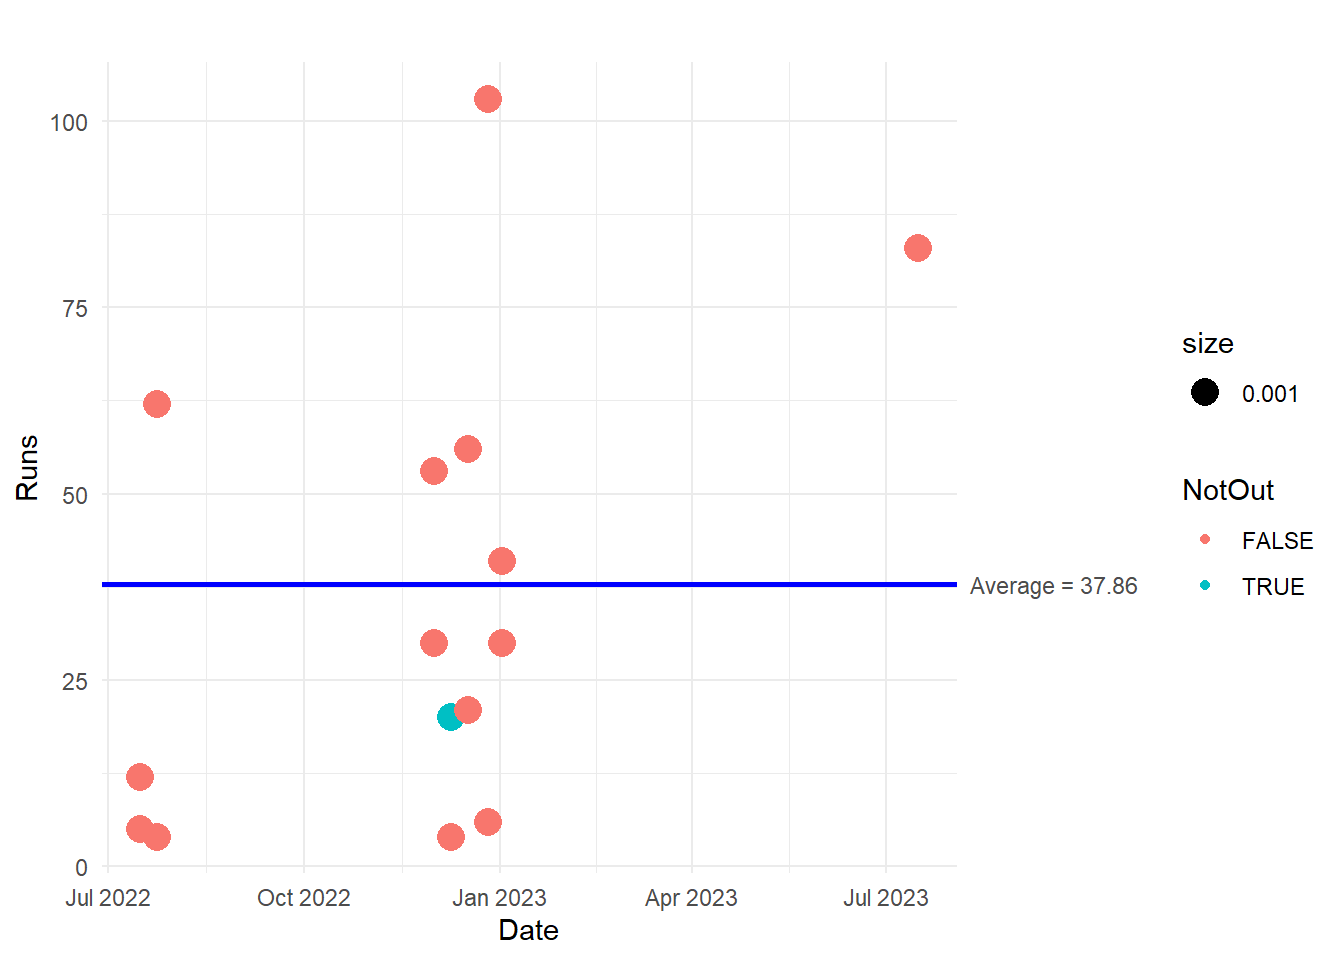
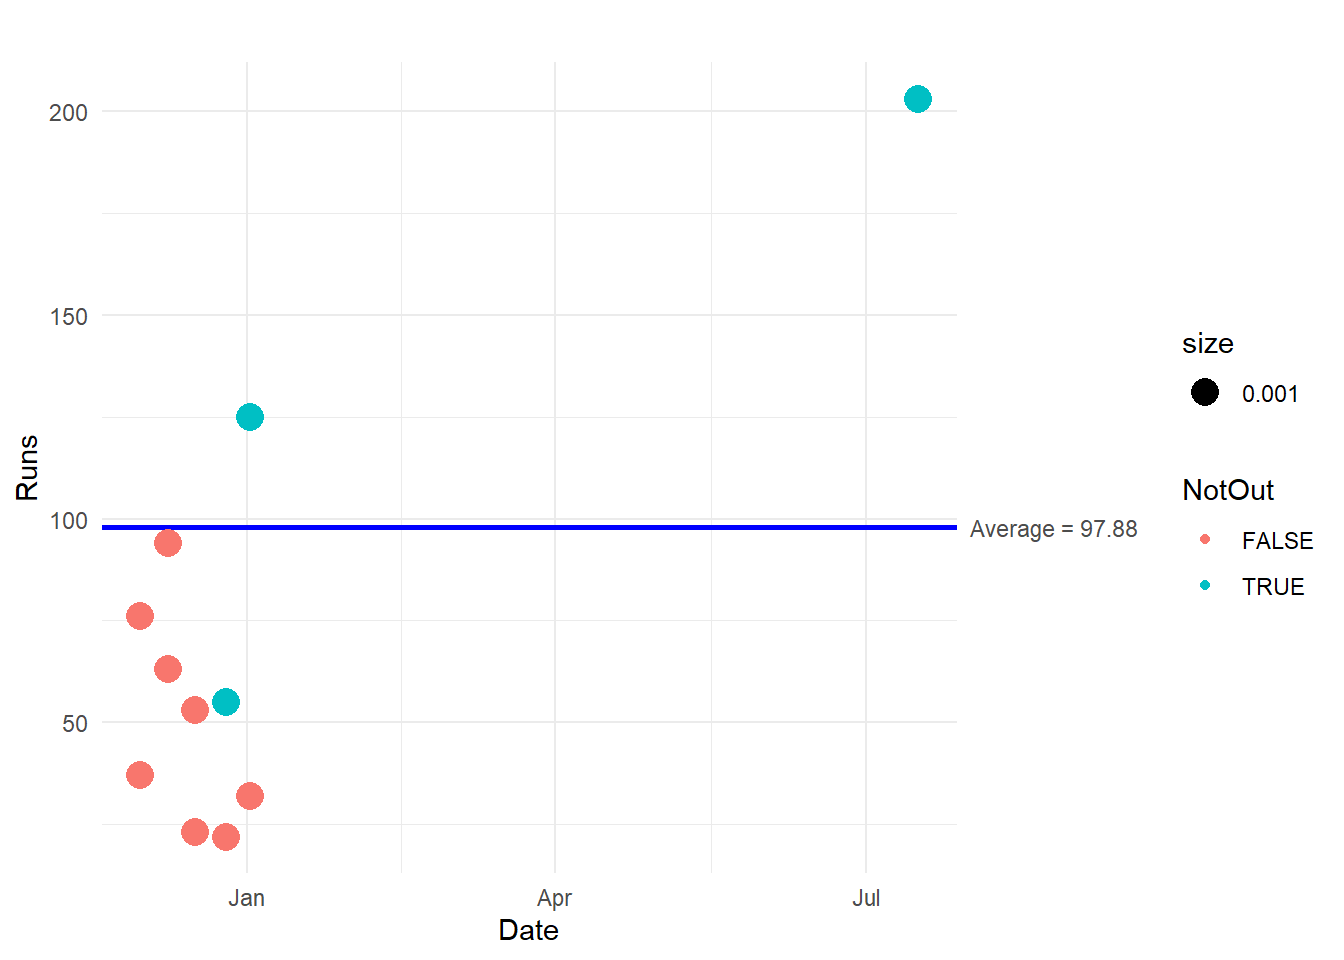
Add quant file

diff --git a/docs/Test_match.html b/docs/Test_match.html
@@ -6,10 +6,8 @@
 
 <meta name="viewport" content="width=device-width, initial-scale=1.0, user-scalable=yes">
 
-<meta name="author" content="Zahid Asghar">
-<meta name="dcterms.date" content="2023-07-18">
 
-<title>Batting Performance of Agha Salman</title>
+<title>test_match</title>
 <style>
 code{white-space: pre-wrap;}
 span.smallcaps{font-variant: small-caps;}
@@ -45,38 +43,11 @@ ul.task-list li input[type="checkbox"] {
 
 <main class="content" id="quarto-document-content">
 
-<header id="title-block-header" class="quarto-title-block default">
-<div class="quarto-title">
-<h1 class="title">Batting Performance of Agha Salman</h1>
-</div>
 
 
-
-<div class="quarto-title-meta">
-
-    <div>
-    <div class="quarto-title-meta-heading">Author</div>
-    <div class="quarto-title-meta-contents">
-             <p><a href="zahedasghar.netlify.app">Zahid Asghar</a> </p>
-          </div>
-  </div>
-    
-    <div>
-    <div class="quarto-title-meta-heading">Published</div>
-    <div class="quarto-title-meta-contents">
-      <p class="date">July 18, 2023</p>
-    </div>
-  </div>
-  
-    
-  </div>
-  
-
-</header>
-
-<section id="test-match-runs-by-agha-salman" class="level2">
-<h2 class="anchored" data-anchor-id="test-match-runs-by-agha-salman">Test match runs by <strong>Agha Salman</strong></h2>
-<p>Agha Salman awesome inning</p>
+<section id="double-century-by-saud-shakeel" class="level2">
+<h2 class="anchored" data-anchor-id="double-century-by-saud-shakeel">Double century by <strong>Saud Shakeel</strong></h2>
+<p>Saud Shakeel awesome inning of double hundred</p>
 <div class="cell">
 <div class="cell-output-display">
 <p><img src="Test_match_files/figure-html/unnamed-chunk-2-1.png" class="img-fluid" width="672"></p>
